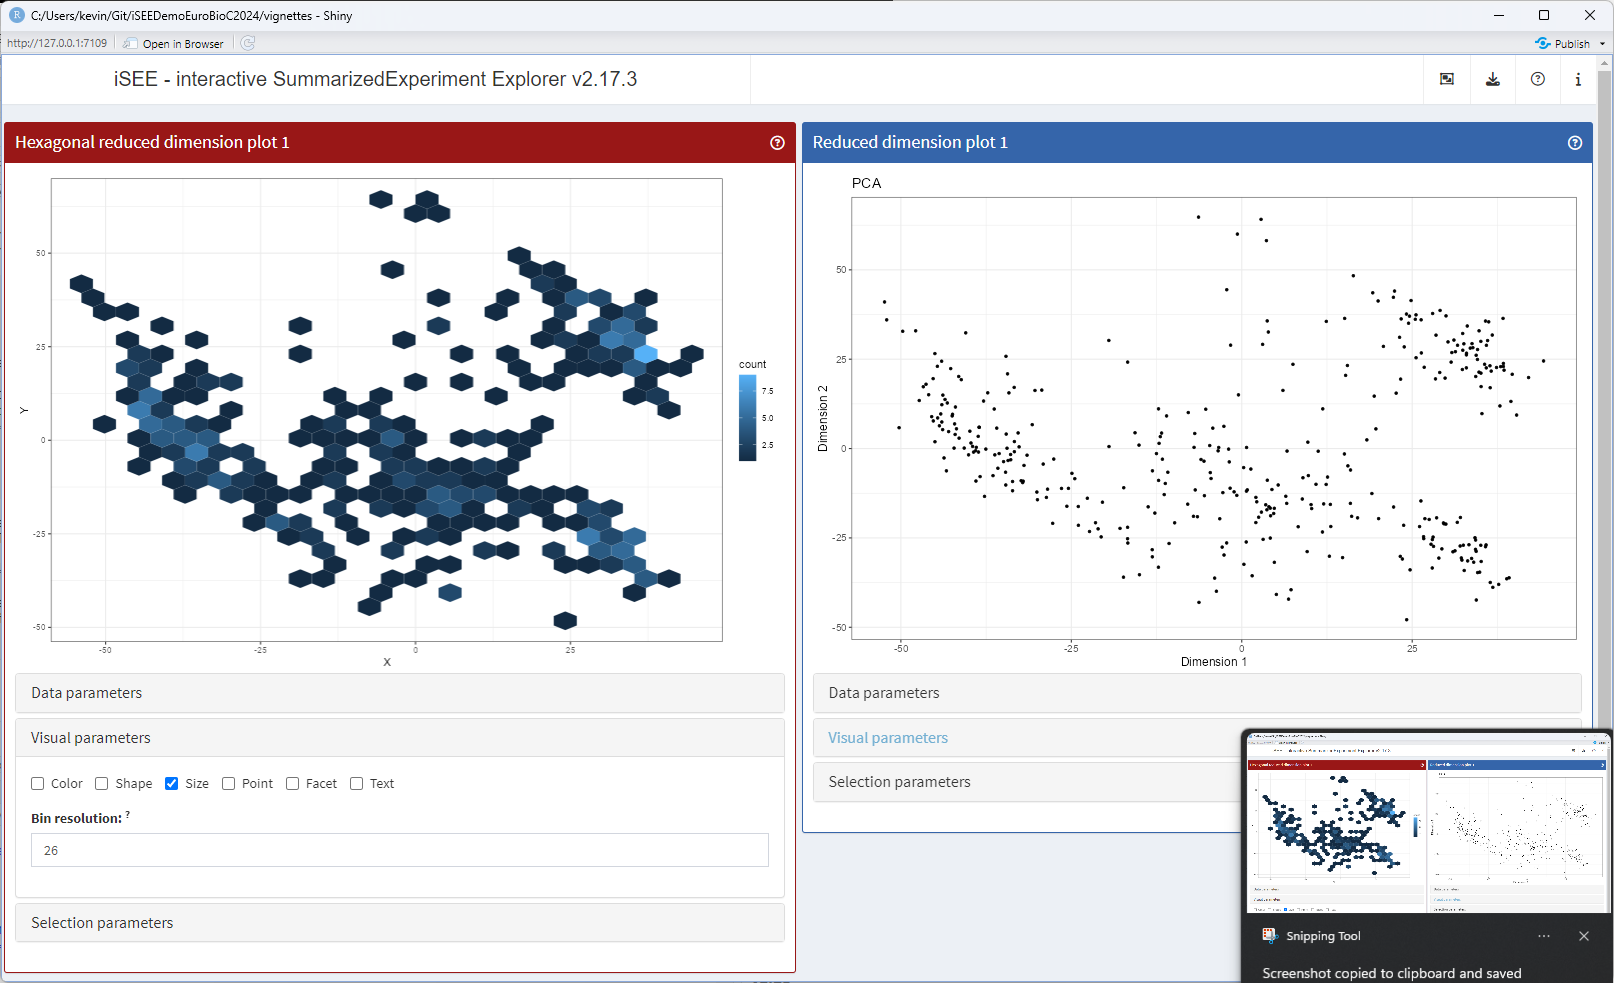
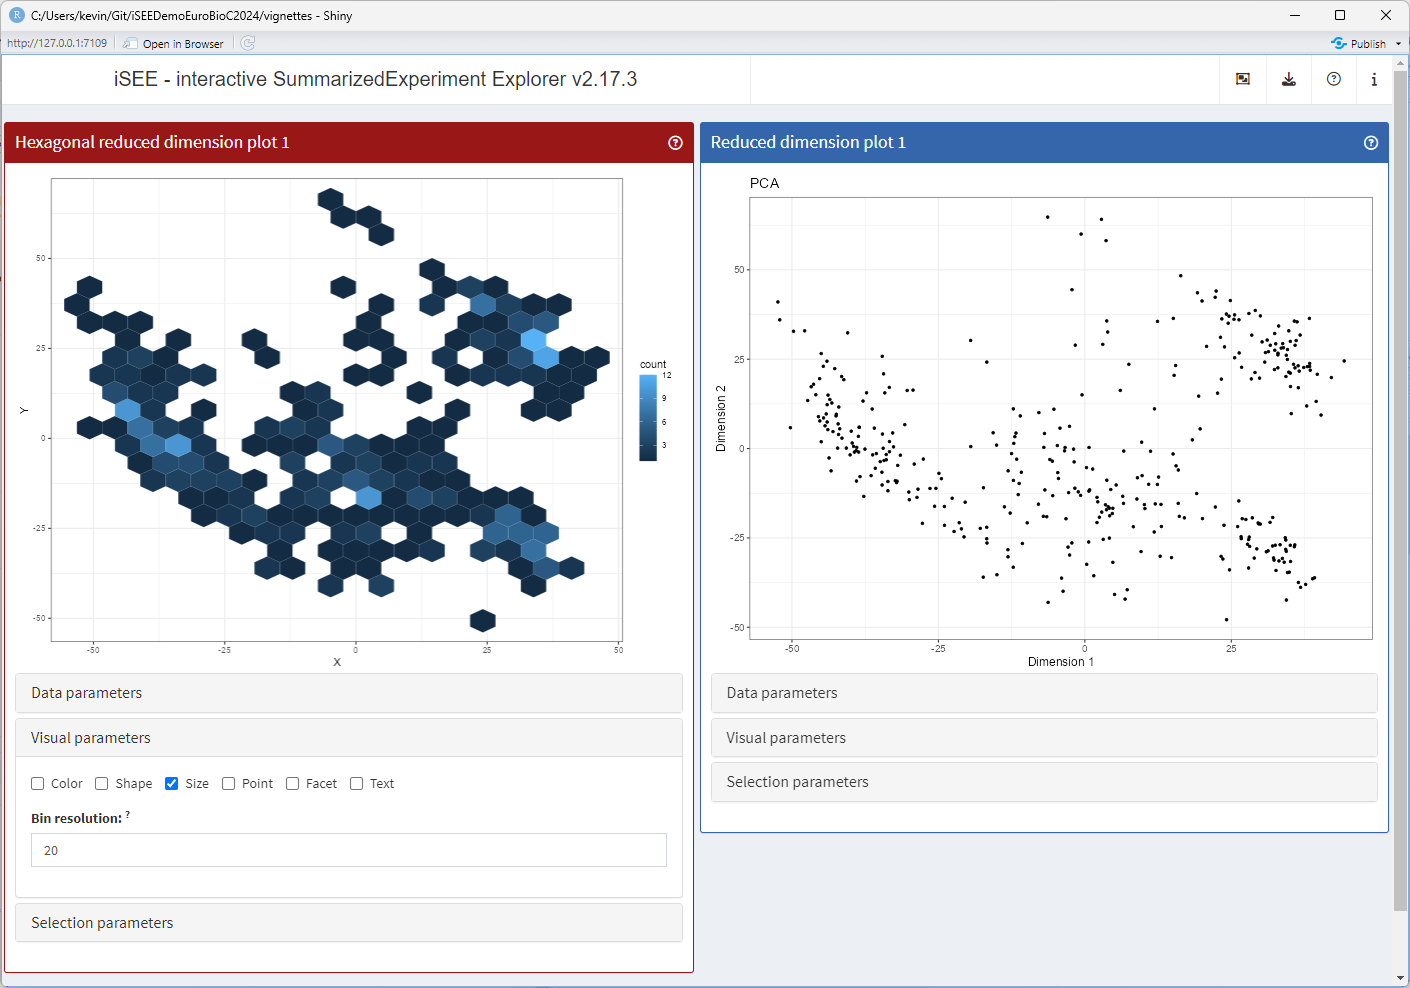
Deploying to gh-pages from @ iSEE/iSEEDemoEuroBioC2024@c464afe83f48c807a1400b261650a03b47fbb66a 🚀

diff --git a/articles/workshop_isee_extension.html b/articles/workshop_isee_extension.html
@@ -1087,7 +1087,7 @@ re-rendered each time.</p>
 <div class="sourceCode" id="cb32"><pre class="downlit sourceCode r">
 <code class="sourceCode R"><span><span class="fu"><a href="https://rdrr.io/pkg/iSEE/man/iSEE.html" class="external-link">iSEE</a></span><span class="op">(</span><span class="va">sce</span>, initial <span class="op">=</span> <span class="fu"><a href="https://rdrr.io/r/base/list.html" class="external-link">list</a></span><span class="op">(</span></span>
 <span>  <span class="fu">ReducedDimensionHexPlot</span><span class="op">(</span>PanelWidth <span class="op">=</span> <span class="fl">6L</span>, VisualBoxOpen <span class="op">=</span> <span class="cn">TRUE</span>, VisualChoices <span class="op">=</span> <span class="st">"Size"</span><span class="op">)</span>,</span>
-<span>  <span class="fu"><a href="https://rdrr.io/pkg/iSEE/man/ReducedDimensionPlot-class.html" class="external-link">ReducedDimensionPlot</a></span><span class="op">(</span>PanelWidth <span class="op">=</span> <span class="fl">6L</span>, VisualBoxOpen <span class="op">=</span> <span class="cn">TRUE</span>, VisualChoices <span class="op">=</span> <span class="st">"Size"</span><span class="op">)</span></span>
+<span>  <span class="fu"><a href="https://rdrr.io/pkg/iSEE/man/ReducedDimensionPlot-class.html" class="external-link">ReducedDimensionPlot</a></span><span class="op">(</span>PanelWidth <span class="op">=</span> <span class="fl">6L</span><span class="op">)</span></span>
 <span><span class="op">)</span><span class="op">)</span></span></code></pre></div>
 <div class="float">
 <img src="img/iSEE_observer.png" alt="Screenshot of iSEE app including a parent ReducedDimensionPlot and a ReducedDimensionHexPlot extension after adding an observer in the child panel and using the value of the new interface element."><div class="figcaption">Screenshot of iSEE app including a parent
@@ -1293,7 +1293,7 @@ interface element.</div>
 <span><span class="co">#&gt;  yaml                   2.3.10    <span style="color: #555555;">2024-07-26</span> <span style="color: #555555;">[2]</span> <span style="color: #BB00BB; font-weight: bold;">RSPM (R 4.4.0)</span></span></span>
 <span><span class="co">#&gt;  zlibbioc               1.51.1    <span style="color: #555555;">2024-06-05</span> <span style="color: #555555;">[2]</span> <span style="color: #555555;">Bioconductor 3.20 (R 4.4.0)</span></span></span>
 <span><span class="co">#&gt; </span></span>
-<span><span class="co">#&gt; <span style="color: #555555;"> [1] /tmp/RtmpVApLht/temp_libpath54716c0dc75</span></span></span>
+<span><span class="co">#&gt; <span style="color: #555555;"> [1] /tmp/RtmpXgqUXp/temp_libpath54753d5424f</span></span></span>
 <span><span class="co">#&gt; <span style="color: #555555;"> [2] /usr/local/lib/R/site-library</span></span></span>
 <span><span class="co">#&gt; <span style="color: #555555;"> [3] /usr/local/lib/R/library</span></span></span>
 <span><span class="co">#&gt; </span></span>
@@ -1303,7 +1303,7 @@ interface element.</div>
 <h2 id="timings">Timings<a class="anchor" aria-label="anchor" href="#timings"></a>
 </h2>
 <p>Wallclock time spent generating the vignette.</p>
-<pre><code><span><span class="co">#&gt; Time difference of 1.286 mins</span></span></code></pre>
+<pre><code><span><span class="co">#&gt; Time difference of 1.299 mins</span></span></code></pre>
 </div>
 <div class="footnotes footnotes-end-of-document">
 <hr>
